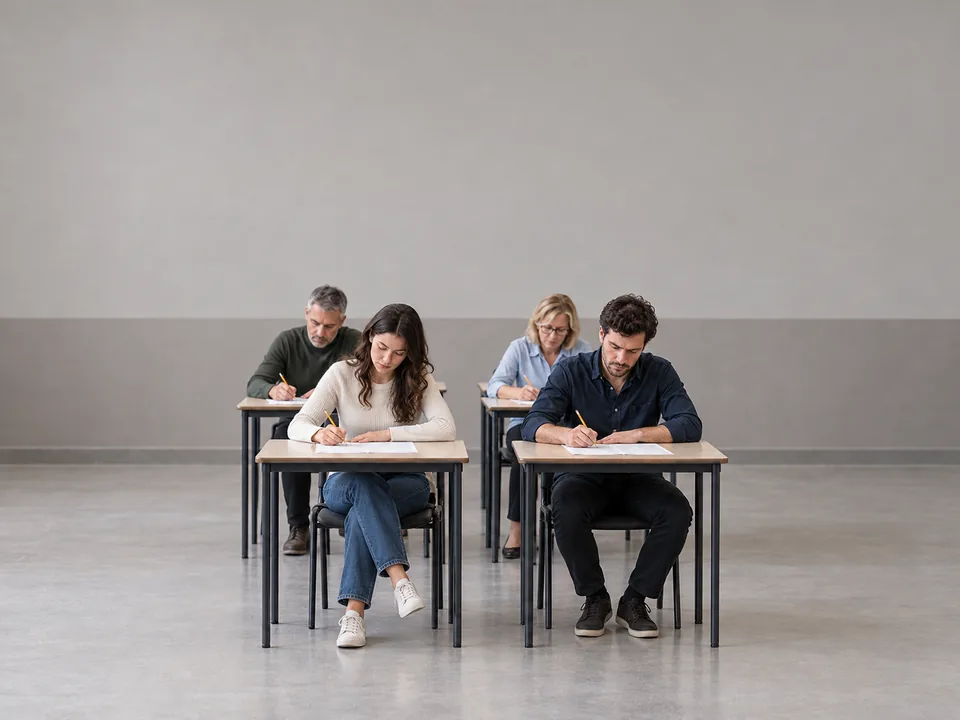
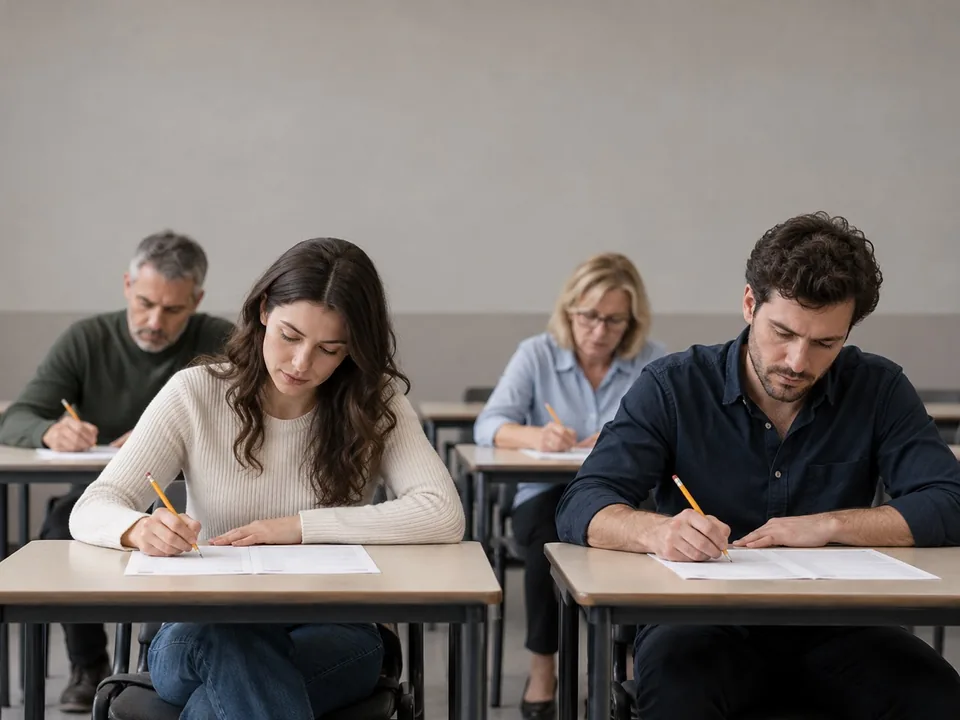
Use user-selected photo for exam preparation service

diff --git a/percorsi.html b/percorsi.html
@@ -68,7 +68,7 @@
 <article class="flip-card" id="doposcuola" aria-labelledby="title-doposcuola"><div class="flip-stage"><div class="flip-inner"><div class="flip-face flip-front service-photo-cover" id="front-doposcuola"><img class="service-cover-photo" src="./servizio-doposcuola.webp?v=20261011b" alt="" width="960" height="720" loading="lazy" decoding="async"><div class="service-cover-header"><h3 id="title-doposcuola">Doposcuola e aiutocompiti</h3><span class="service-cover-tag">Scuola</span></div></div><div class="flip-face flip-back" id="details-doposcuola"><span class="service-back-mode">IN PRESENZA</span><span class="flip-back-label">Il percorso, in pratica</span><h3>Doposcuola e aiutocompiti</h3><p>I tutor ti affiancano nel lavoro scolastico: dai compiti assegnati alla comprensione degli argomenti che hanno bisogno di un po’ più di attenzione.</p><ul><li>Affiancamento durante lo svolgimento dei compiti</li><li>Chiarimento dei concetti e dei dubbi</li><li>Consolidamento delle conoscenze scolastiche</li><li>Supporto dei tutor in presenza a Pescara</li></ul><a class="text-link" href="./index.html#contatti" aria-label="Parliamo del percorso: Doposcuola e aiutocompiti">Parliamo di questo percorso <span aria-hidden="true">↗</span></a></div></div></div><button class="flip-toggle" type="button" aria-expanded="false" aria-controls="details-doposcuola" aria-label="Scopri i dettagli: Doposcuola e aiutocompiti" hidden><span class="flip-toggle-label">Scopri i dettagli</span><span aria-hidden="true">↻</span></button></article>
 <article class="flip-card" id="supporto-dsa" aria-labelledby="title-supporto-dsa"><div class="flip-stage"><div class="flip-inner"><div class="flip-face flip-front service-photo-cover" id="front-supporto-dsa"><img class="service-cover-photo" src="./servizio-supporto-dsa.webp?v=20261011b" alt="" width="960" height="720" loading="lazy" decoding="async"><div class="service-cover-header"><h3 id="title-supporto-dsa">Supporto DSA · BES · ADHD</h3><span class="service-cover-tag">Potenziamento</span></div></div><div class="flip-face flip-back" id="details-supporto-dsa"><span class="service-back-mode">IN PRESENZA · ONLINE</span><span class="flip-back-label">Il percorso, in pratica</span><h3>Supporto DSA · BES · ADHD</h3><p>Programmi individualizzati di potenziamento, adattati alle esigenze dello studente e al suo percorso di apprendimento.</p><ul><li>Strategie di studio personalizzate</li><li>Mappe concettuali e strumenti compensativi</li><li>Lavoro su comprensione, memoria e organizzazione</li><li>Supporto per sviluppare fiducia e autonomia</li></ul><a class="text-link" href="./index.html#contatti" aria-label="Parliamo del percorso: Supporto DSA · BES · ADHD">Parliamo di questo percorso <span aria-hidden="true">↗</span></a></div></div></div><button class="flip-toggle" type="button" aria-expanded="false" aria-controls="details-supporto-dsa" aria-label="Scopri i dettagli: Supporto DSA · BES · ADHD" hidden><span class="flip-toggle-label">Scopri i dettagli</span><span aria-hidden="true">↻</span></button></article>
 <article class="flip-card" id="tirocini-universita-aquila" aria-labelledby="title-tirocini-universita-aquila"><div class="flip-stage"><div class="flip-inner"><div class="flip-face flip-front service-photo-cover" id="front-tirocini-universita-aquila"><img class="service-cover-photo" src="./servizio-tirocini-universita-aquila.webp?v=20261011b" alt="" width="960" height="720" loading="lazy" decoding="async"><div class="service-cover-header"><h3 id="title-tirocini-universita-aquila">Tirocini · Università dell’Aquila</h3><span class="service-cover-tag">Università</span></div></div><div class="flip-face flip-back" id="details-tirocini-universita-aquila"><span class="service-back-mode">FORMAZIONE SUL CAMPO</span><span class="flip-back-label">Il percorso, in pratica</span><h3>Tirocini · Università dell’Aquila</h3><p>Tirocini in collaborazione con il Dipartimento di Scienze Umane dell’Università degli Studi dell’Aquila.</p><ul><li>Attività formative e progettuali</li><li>Partecipazione a progetti reali</li><li>Affiancamento di tutor e professionisti</li><li>Informazioni e candidature attraverso il centro</li></ul><a class="text-link" href="./index.html#contatti" aria-label="Parliamo del percorso: Tirocini · Università dell’Aquila">Parliamo di questo percorso <span aria-hidden="true">↗</span></a></div></div></div><button class="flip-toggle" type="button" aria-expanded="false" aria-controls="details-tirocini-universita-aquila" aria-label="Scopri i dettagli: Tirocini · Università dell’Aquila" hidden><span class="flip-toggle-label">Scopri i dettagli</span><span aria-hidden="true">↻</span></button></article>
-<article class="flip-card" id="preparazione-concorsi" aria-labelledby="title-preparazione-concorsi"><div class="flip-stage"><div class="flip-inner"><div class="flip-face flip-front service-photo-cover" id="front-preparazione-concorsi"><img class="service-cover-photo" src="./servizio-preparazione-concorsi.webp?v=20261011b" alt="" width="960" height="720" loading="lazy" decoding="async"><div class="service-cover-header"><h3 id="title-preparazione-concorsi">Preparazione concorsi</h3><span class="service-cover-tag">Concorsi</span></div></div><div class="flip-face flip-back" id="details-preparazione-concorsi"><span class="service-back-mode">PREPARAZIONE MIRATA</span><span class="flip-back-label">Il percorso, in pratica</span><h3>Preparazione concorsi</h3><p>Partiamo dal concorso che vuoi affrontare e dalle materie su cui hai bisogno di supporto.</p><ul><li>Studio degli argomenti previsti dal bando</li><li>Chiarimento dei concetti e delle difficoltà</li><li>Esercitazioni sulle materie da preparare</li><li>Organizzazione del lavoro in base alle scadenze</li></ul><a class="text-link" href="./index.html#contatti" aria-label="Parliamo del percorso: Preparazione concorsi">Parliamo di questo percorso <span aria-hidden="true">↗</span></a></div></div></div><button class="flip-toggle" type="button" aria-expanded="false" aria-controls="details-preparazione-concorsi" aria-label="Scopri i dettagli: Preparazione concorsi" hidden><span class="flip-toggle-label">Scopri i dettagli</span><span aria-hidden="true">↻</span></button></article>
+<article class="flip-card" id="preparazione-concorsi" aria-labelledby="title-preparazione-concorsi"><div class="flip-stage"><div class="flip-inner"><div class="flip-face flip-front service-photo-cover" id="front-preparazione-concorsi"><img class="service-cover-photo" src="./servizio-preparazione-concorsi.webp?v=20261011c" alt="" width="960" height="720" loading="lazy" decoding="async"><div class="service-cover-header"><h3 id="title-preparazione-concorsi">Preparazione concorsi</h3><span class="service-cover-tag">Concorsi</span></div></div><div class="flip-face flip-back" id="details-preparazione-concorsi"><span class="service-back-mode">PREPARAZIONE MIRATA</span><span class="flip-back-label">Il percorso, in pratica</span><h3>Preparazione concorsi</h3><p>Partiamo dal concorso che vuoi affrontare e dalle materie su cui hai bisogno di supporto.</p><ul><li>Studio degli argomenti previsti dal bando</li><li>Chiarimento dei concetti e delle difficoltà</li><li>Esercitazioni sulle materie da preparare</li><li>Organizzazione del lavoro in base alle scadenze</li></ul><a class="text-link" href="./index.html#contatti" aria-label="Parliamo del percorso: Preparazione concorsi">Parliamo di questo percorso <span aria-hidden="true">↗</span></a></div></div></div><button class="flip-toggle" type="button" aria-expanded="false" aria-controls="details-preparazione-concorsi" aria-label="Scopri i dettagli: Preparazione concorsi" hidden><span class="flip-toggle-label">Scopri i dettagli</span><span aria-hidden="true">↻</span></button></article>
 <article class="flip-card" id="test-ingresso-universita" aria-labelledby="title-test-ingresso-universita"><div class="flip-stage"><div class="flip-inner"><div class="flip-face flip-front service-photo-cover" id="front-test-ingresso-universita"><img class="service-cover-photo" src="./servizio-test-ingresso-universita.webp?v=20261011b" alt="" width="960" height="720" loading="lazy" decoding="async"><div class="service-cover-header"><h3 id="title-test-ingresso-universita">Test d’ingresso universitari</h3><span class="service-cover-tag">Università</span></div></div><div class="flip-face flip-back" id="details-test-ingresso-universita"><span class="service-back-mode">VERSO L’UNIVERSITÀ</span><span class="flip-back-label">Il percorso, in pratica</span><h3>Test d’ingresso universitari</h3><p>Lavoriamo sugli argomenti del test che vuoi sostenere, consolidando le conoscenze e il modo di affrontare i quesiti.</p><ul><li>Ripasso delle materie richieste dal test</li><li>Comprensione dei quesiti ed esercitazioni</li><li>Lavoro sulle lacune da recuperare</li><li>Organizzazione dello studio prima della prova</li></ul><a class="text-link" href="./index.html#contatti" aria-label="Parliamo del percorso: Test d’ingresso universitari">Parliamo di questo percorso <span aria-hidden="true">↗</span></a></div></div></div><button class="flip-toggle" type="button" aria-expanded="false" aria-controls="details-test-ingresso-universita" aria-label="Scopri i dettagli: Test d’ingresso universitari" hidden><span class="flip-toggle-label">Scopri i dettagli</span><span aria-hidden="true">↻</span></button></article>
 <article class="flip-card" id="concorsi-militari" aria-labelledby="title-concorsi-militari"><div class="flip-stage"><div class="flip-inner"><div class="flip-face flip-front service-photo-cover" id="front-concorsi-militari"><img class="service-cover-photo" src="./servizio-concorsi-militari.webp?v=20261011b" alt="" width="960" height="720" loading="lazy" decoding="async"><div class="service-cover-header"><h3 id="title-concorsi-militari">Concorsi militari</h3><span class="service-cover-tag">Concorsi</span></div></div><div class="flip-face flip-back" id="details-concorsi-militari"><span class="service-back-mode">PREPARAZIONE ALLE PROVE TEORICHE</span><span class="flip-back-label">Il percorso, in pratica</span><h3>Concorsi militari</h3><p>Supporto allo studio per le prove teoriche del concorso che hai scelto, a partire dal relativo programma.</p><ul><li>Ripasso delle materie previste dal bando</li><li>Esercitazioni sui quesiti teorici</li><li>Chiarimento degli argomenti più complessi</li><li>Pianificazione dello studio verso la prova</li></ul><a class="text-link" href="./index.html#contatti" aria-label="Parliamo del percorso: Concorsi militari">Parliamo di questo percorso <span aria-hidden="true">↗</span></a></div></div></div><button class="flip-toggle" type="button" aria-expanded="false" aria-controls="details-concorsi-militari" aria-label="Scopri i dettagli: Concorsi militari" hidden><span class="flip-toggle-label">Scopri i dettagli</span><span aria-hidden="true">↻</span></button></article>
 <article class="flip-card" id="recupero-anni-scolastici" aria-labelledby="title-recupero-anni-scolastici"><div class="flip-stage"><div class="flip-inner"><div class="flip-face flip-front service-photo-cover" id="front-recupero-anni-scolastici"><img class="service-cover-photo" src="./servizio-recupero-anni-scolastici.webp?v=20261011b" alt="" width="960" height="720" loading="lazy" decoding="async"><div class="service-cover-header"><h3 id="title-recupero-anni-scolastici">Recupero anni scolastici</h3><span class="service-cover-tag">Scuola</span></div></div><div class="flip-face flip-back" id="details-recupero-anni-scolastici"><span class="service-back-mode">RIPARTIRE DALLO STUDIO</span><span class="flip-back-label">Il percorso, in pratica</span><h3>Recupero anni scolastici</h3><p>Un percorso di recupero anni con una scuola partner, accompagnato dal nostro supporto nella preparazione delle materie e degli esami.</p><ul><li>Percorso con una scuola partner</li><li>Preparazione delle materie e degli esami</li><li>Recupero delle lacune e supporto allo studio</li><li>Informazioni su modalità e passaggi nei contatti</li></ul><a class="text-link" href="./index.html#contatti" aria-label="Parliamo del percorso: Recupero anni scolastici">Parliamo di questo percorso <span aria-hidden="true">↗</span></a></div></div></div><button class="flip-toggle" type="button" aria-expanded="false" aria-controls="details-recupero-anni-scolastici" aria-label="Scopri i dettagli: Recupero anni scolastici" hidden><span class="flip-toggle-label">Scopri i dettagli</span><span aria-hidden="true">↻</span></button></article>

diff --git a/CHANGELOG.md b/CHANGELOG.md
@@ -271,3 +271,7 @@ Semplificato il fronte delle nove schede con foto tematiche, filtro scuro, titol
 
 ## 11 ottobre 2026 - Copertine servizi diversificate
 Sostituite le nove foto con librerie a tutta parete, schemi, aula rossa, libri colorati, sede esame, Collemaggio, campus immaginario, cadetti con tricolore e aula blu. Template e dettagli conservati.
+
+
+## 11 ottobre 2026 - Foto concorsi scelta dal centro
+Sostituita la copertina Preparazione concorsi con immagine fornita dall’utente. Stile e contenuto conservati.
